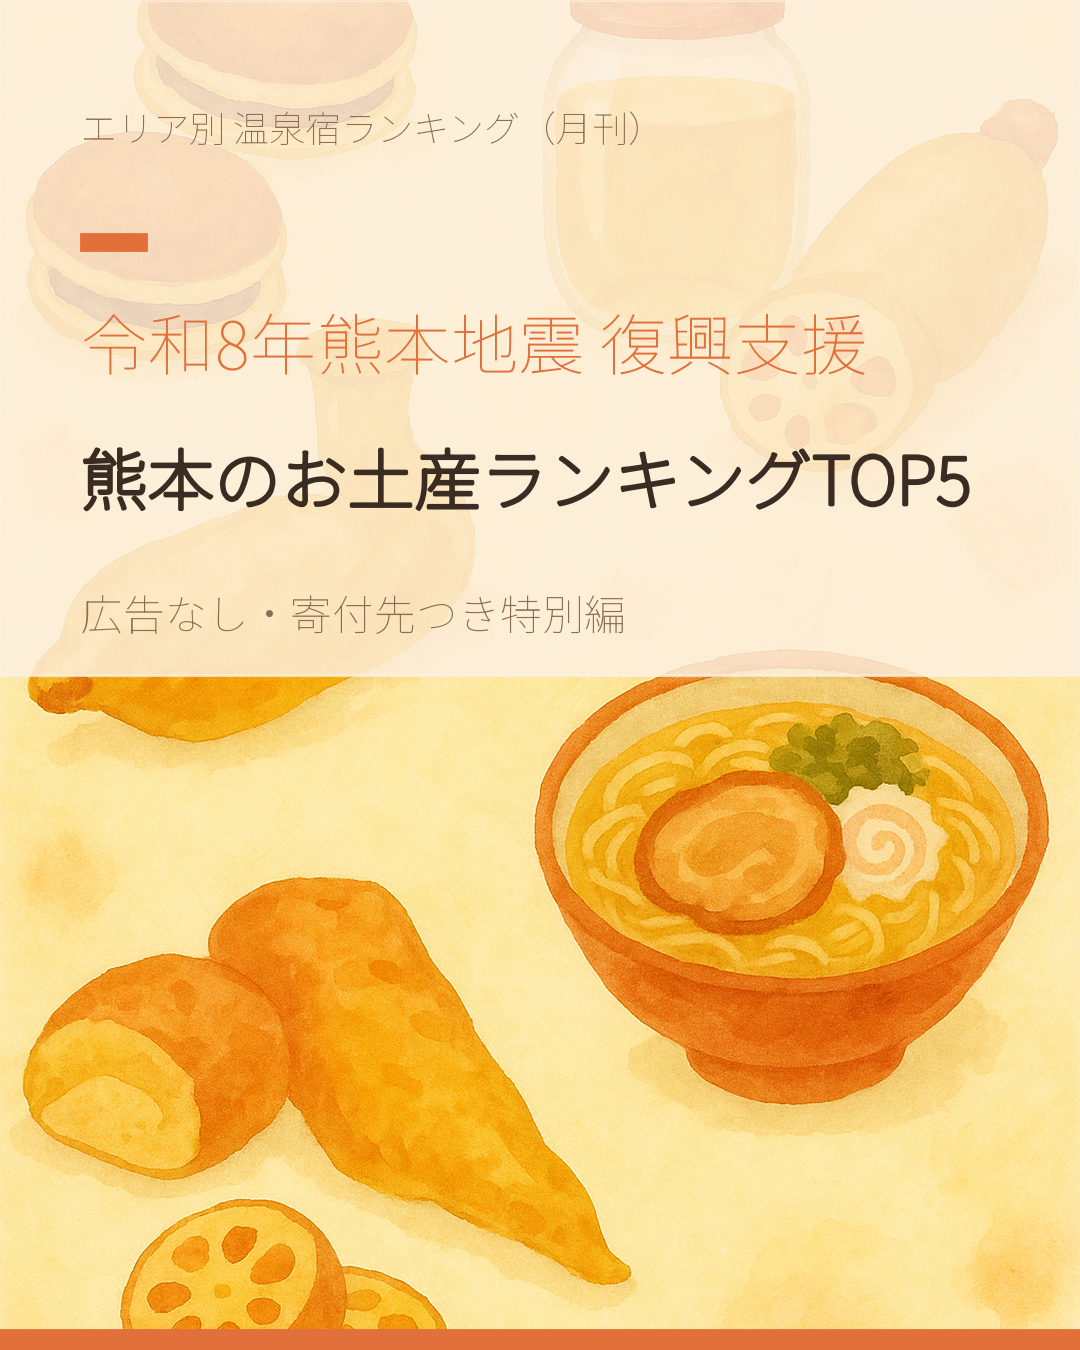
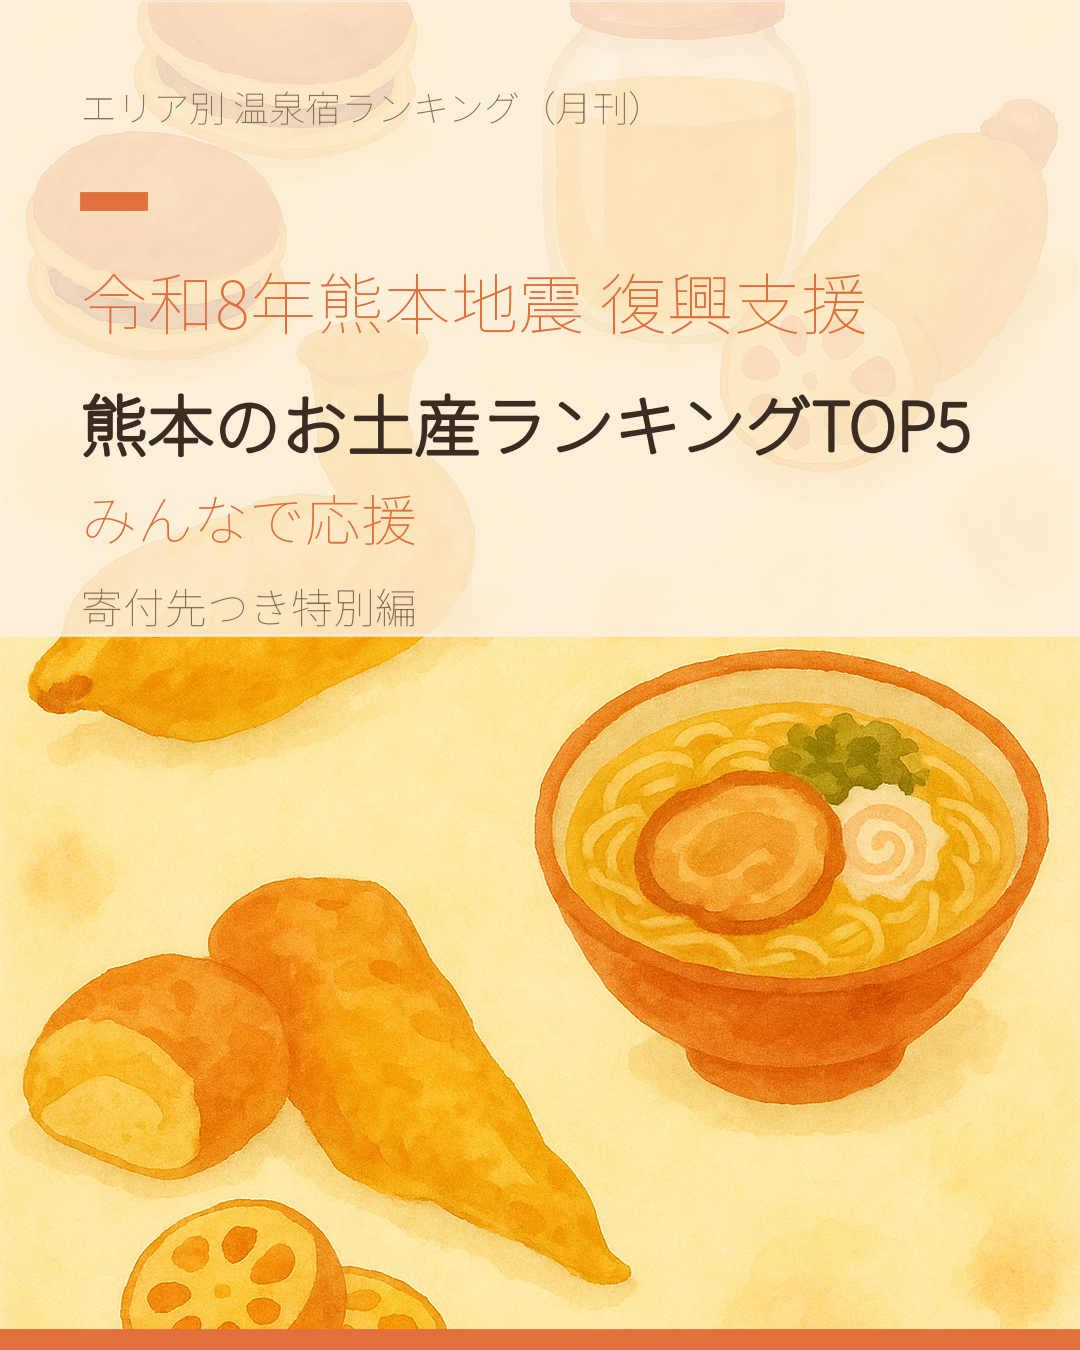
fix(4-onsen): 熊本特別編サムネイルの文言修正
- 「広告なし」を削除
- タイトル下に「みんなで応援」を追加（make_eyecatch.py に cheer 引数を追加）

diff --git a/dev/4-onsen/assets/make_eyecatch.py b/dev/4-onsen/assets/make_eyecatch.py
@@ -92,18 +92,25 @@ def _hokkaido_bottom(ax) -> None:
 MOTIFS = {"hokkaido": (_hokkaido_side, _hokkaido_bottom)}
 
 
-def _render(label, subtitle, out, motif, size, tagline_note=None, tagline_ig=None, bg_path=None) -> None:
+def _render(label, subtitle, out, motif, size, tagline_note=None, tagline_ig=None, bg_path=None,
+            cheer=None) -> None:
     if size == "ig":
         W, H = 1080, 1350
-        y_series, y_tick, y_label, y_sub, y_tag = 0.905, 0.815, 0.745, 0.645, 0.545
-        fs_label, fs_sub, fs_tag = 24, 34, 15
+        if cheer and bg_path is not None:
+            # 応援メッセージ分の行を追加するため、パネルを広げてやや詰めて配置
+            y_series, y_tick, y_label, y_sub, y_cheer, y_tag = 0.92, 0.845, 0.775, 0.685, 0.615, 0.55
+            panel_h = 0.47  # このY座標より下を画像として見せる（=パネルは 1-panel_h から上）
+        else:
+            y_series, y_tick, y_label, y_sub, y_cheer, y_tag = 0.905, 0.815, 0.745, 0.645, None, 0.545
+            panel_h = 0.50
+        fs_label, fs_sub, fs_cheer, fs_tag = 24, 34, 20, 15
         tagline = tagline_ig or "楽天トラベル×じゃらんの独自採点"
         motif_idx = 1
         panel_w = 1.0  # AI背景では下部に帯を敷くため使わない（テキストY座標のみ利用）
     else:  # note
         W, H = 1280, 670
-        y_series, y_tick, y_label, y_sub, y_tag = 0.775, 0.715, 0.60, 0.45, 0.22
-        fs_label, fs_sub, fs_tag = 20, 25, 12
+        y_series, y_tick, y_label, y_sub, y_cheer, y_tag = 0.775, 0.715, 0.60, 0.45, 0.335, 0.22
+        fs_label, fs_sub, fs_cheer, fs_tag = 20, 25, 16, 12
         tagline = tagline_note or "楽天トラベル×じゃらん 独自採点 ｜ 宿ランキングTOP5"
         motif_idx = 0
         panel_w = 0.62  # AI背景では左側に半透明パネルを敷いてテキストを読みやすくする
@@ -127,7 +134,7 @@ def _render(label, subtitle, out, motif, size, tagline_note=None, tagline_ig=Non
         ax.imshow(img, extent=[0, 1, 0, 1], aspect="auto", zorder=0)
         if size == "ig":
             # 縦長は上部に帯を敷いてテキストを乗せる（テキストは上半分に配置されるため。画像下部はそのまま見せる）
-            ax.add_patch(plt.Rectangle((0, 0.50), 1, 0.50, color=BG, alpha=0.82, zorder=1))
+            ax.add_patch(plt.Rectangle((0, 1 - panel_h), 1, panel_h, color=BG, alpha=0.82, zorder=1))
         else:
             # 横長は左側に半透明パネル（画像は右側に見せる）
             ax.add_patch(plt.Rectangle((0, 0), panel_w, 1, color=BG, alpha=0.82, zorder=1))
@@ -142,6 +149,8 @@ def _render(label, subtitle, out, motif, size, tagline_note=None, tagline_ig=Non
     ax.text(0.075, y_label, label, fontsize=fs_label, color=ACCENT, fontweight="bold", va="center", zorder=3)
     t = ax.text(0.075, y_sub, subtitle, fontsize=fs_sub, color=TITLE, fontweight="bold", va="center", zorder=3)
     t.set_path_effects([pe.withStroke(linewidth=1.3, foreground=TITLE)])
+    if cheer and y_cheer is not None:
+        ax.text(0.075, y_cheer, cheer, fontsize=fs_cheer, color=ACCENT, fontweight="bold", va="center", zorder=3)
     ax.text(0.075, y_tag, tagline, fontsize=fs_tag, color=MUTE, va="center", zorder=3)
 
     out.parent.mkdir(parents=True, exist_ok=True)
@@ -152,14 +161,16 @@ def _render(label, subtitle, out, motif, size, tagline_note=None, tagline_ig=Non
 
 def eyecatch(label: str, subtitle: str, out_dir: Path, motif: str | None = None,
              kind: str = "onsen", bg_note: Path | None = None, bg_ig: Path | None = None,
-             tagline_note: str | None = None, tagline_ig: str | None = None) -> None:
+             tagline_note: str | None = None, tagline_ig: str | None = None,
+             cheer: str | None = None) -> None:
     """note用（eyecatch.png）とInstagram用（eyecatch-ig.png）を両方生成する。
 
     kind="omiyage" にすると、タグラインを「お土産ランキング」向けに差し替える
     （マガジンは温泉宿ランキングと共通のため SERIES 表記はそのまま）。
     bg_note/bg_ig を指定すると、`scripts/ai_image.py` で生成した背景画像の上に
     文字を重ねるハイブリッド方式になる（motifは使われない）。tagline_note/tagline_ig で
-    タグラインを個別に上書きできる（kindによる既定より優先）。
+    タグラインを個別に上書きできる（kindによる既定より優先）。cheer を指定すると、
+    タイトルの下に応援メッセージ（例:「みんなで応援」）を1行追加する。
     """
     if kind == "omiyage":
         tn = tagline_note or "楽天市場×Amazon 独自採点 ｜ お土産ランキングTOP5"
@@ -167,8 +178,8 @@ def eyecatch(label: str, subtitle: str, out_dir: Path, motif: str | None = None,
     else:
         tn = tagline_note
         ti = tagline_ig
-    _render(label, subtitle, out_dir / "eyecatch.png", motif, "note", tn, ti, bg_path=bg_note)
-    _render(label, subtitle, out_dir / "eyecatch-ig.png", motif, "ig", tn, ti, bg_path=bg_ig)
+    _render(label, subtitle, out_dir / "eyecatch.png", motif, "note", tn, ti, bg_path=bg_note, cheer=cheer)
+    _render(label, subtitle, out_dir / "eyecatch-ig.png", motif, "ig", tn, ti, bg_path=bg_ig, cheer=cheer)
 
 
 if __name__ == "__main__":
